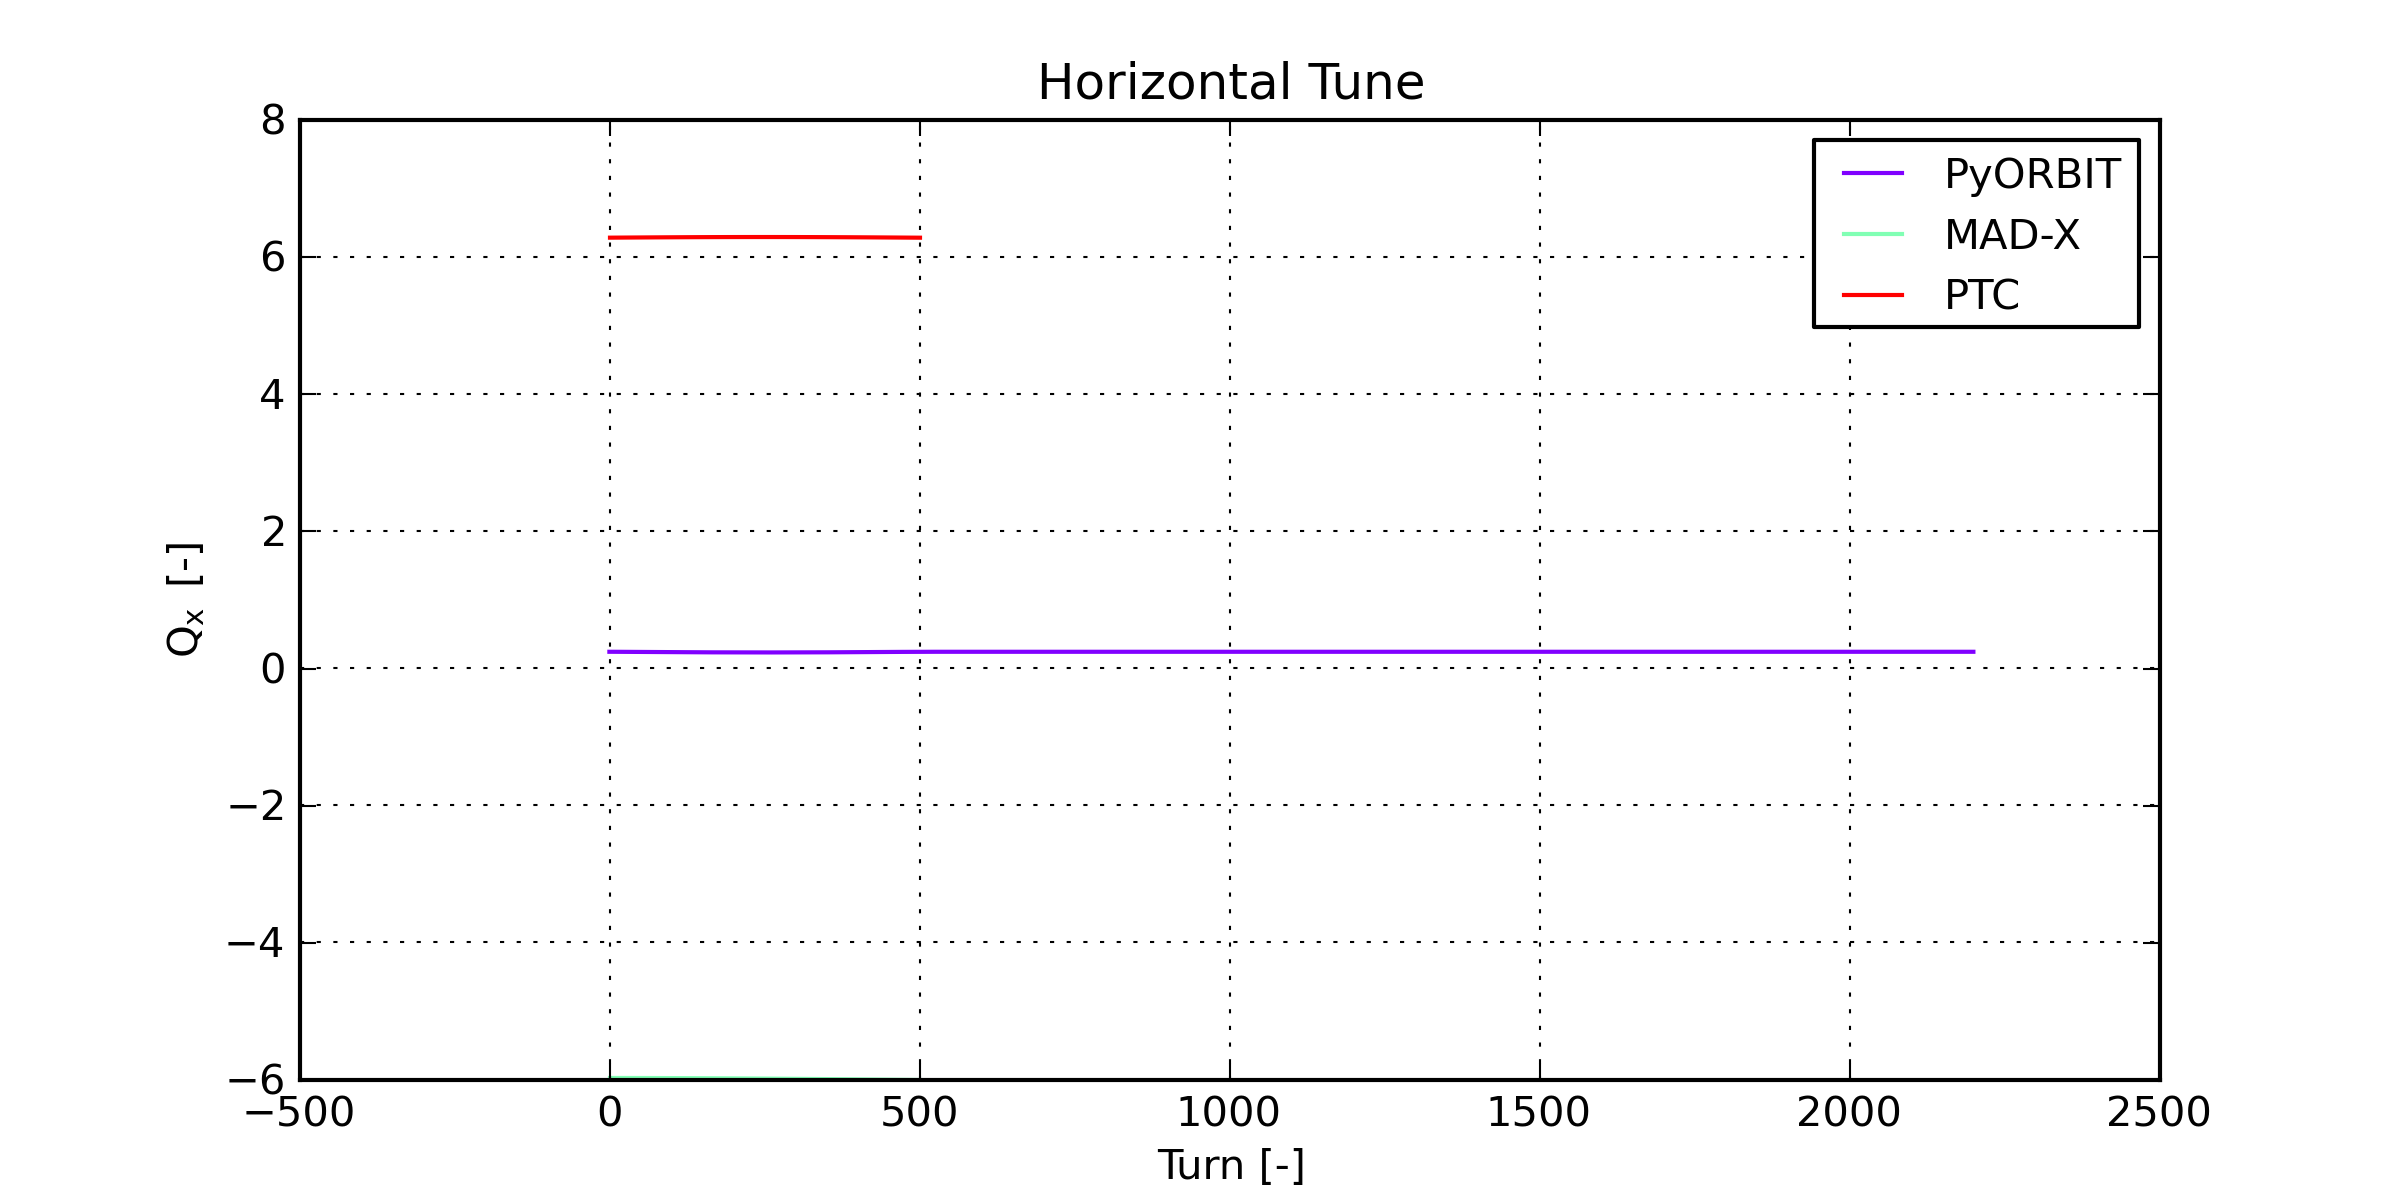
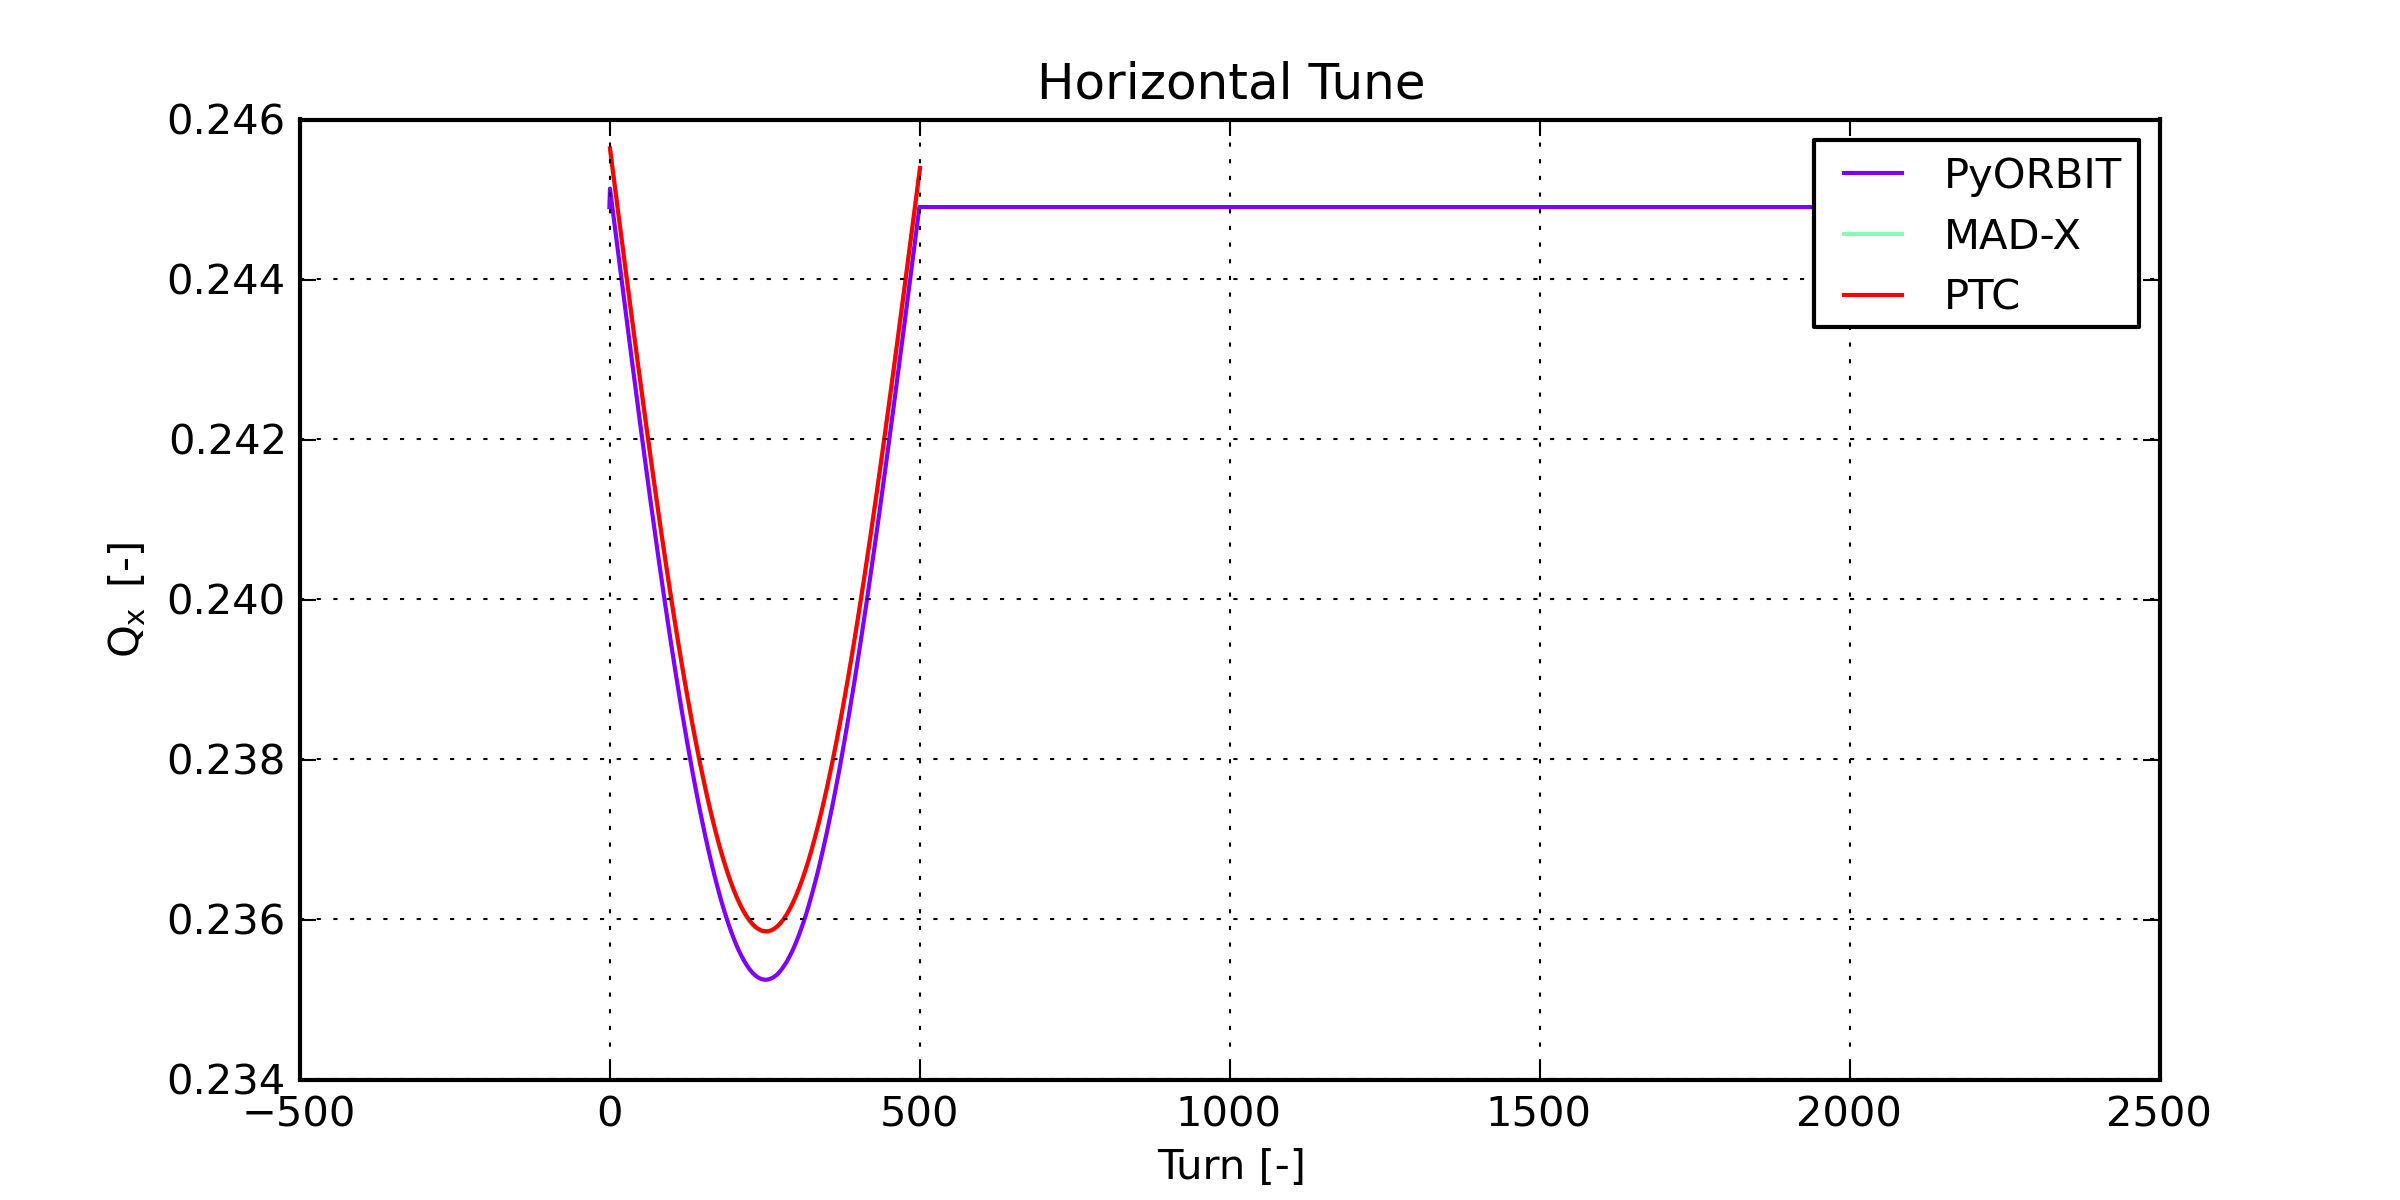
08: Gathered MADX PTC PyORBIT plotting udpated

diff --git a/08_Injection_Bump/00_Flat_Bottom/PyORBIT/Plot_MADX_Tunes.py b/08_Injection_Bump/00_Flat_Bottom/PyORBIT/Plot_MADX_Tunes.py
@@ -24,10 +24,10 @@ def add_input_file(dd, filename, label):
 	f = filename
 	p = dict()
 	sio.loadmat(f, mdict=p)
-	dd[label] = p
+	dd[label] = p	
 	print '\tAdded output data from ', filename, '\t dictionary key: ', label
 	return dd
-        
+
 # Function takes the data, creates the correct timing for each value in
 # seconds, then appends the required number of intervals with zeroes
 def Create_Timing(ramp_stop_time, simulation_stop_time):
@@ -59,7 +59,7 @@ def Create_Timing(ramp_stop_time, simulation_stop_time):
 # Create dd dictionary
 dd = dict()
 dd = add_input_file(dd, 'output/output.mat', 'PyORBIT')
-print 'Final data dictionary keys: ', dd['PyORBIT'].keys()
+print 'Final data dictionary keys: ', dd.keys()
 
 sc = 'Slice-by-Slice'
 main_label = '08'

diff --git a/08_Injection_Bump/00_Bare_Machine/PyORBIT/Plot_MADX_Tunes.py b/08_Injection_Bump/00_Bare_Machine/PyORBIT/Plot_MADX_Tunes.py
@@ -82,10 +82,10 @@ fin = open(infile,'r').readlines()[8:]
 
 # Save s, x
 for l in fin:
-	madx_qx.append(float(l.split()[8])-6.)
-	madx_qy.append(float(l.split()[9])-6.)
-	ptc_qx.append(float(l.split()[10]))
-	ptc_qy.append(float(l.split()[11]))
+	madx_qx.append(float(l.split()[9])-6.)
+	madx_qy.append(float(l.split()[10])-6.)
+	ptc_qx.append(float(l.split()[11]))
+	ptc_qy.append(float(l.split()[12]))
 
 size = len(ptc_qx)
 turns = np.linspace(0, 500, size)

diff --git a/08_Injection_Bump/00_Master/PyORBIT/Plot_MADX_Tunes.py b/08_Injection_Bump/00_Master/PyORBIT/Plot_MADX_Tunes.py
@@ -82,10 +82,10 @@ fin = open(infile,'r').readlines()[8:]
 
 # Save s, x
 for l in fin:
-	madx_qx.append(float(l.split()[8])-6.)
-	madx_qy.append(float(l.split()[9])-6.)
-	ptc_qx.append(float(l.split()[10]))
-	ptc_qy.append(float(l.split()[11]))
+	madx_qx.append(float(l.split()[9])-6.)
+	madx_qy.append(float(l.split()[10])-6.)
+	ptc_qx.append(float(l.split()[11]))
+	ptc_qy.append(float(l.split()[12]))
 
 size = len(ptc_qx)
 turns = np.linspace(0, 500, size)

diff --git a/08_Injection_Bump/00_Matched_H_07/PyORBIT/Plot_MADX_Tunes.py b/08_Injection_Bump/00_Matched_H_07/PyORBIT/Plot_MADX_Tunes.py
@@ -82,10 +82,10 @@ fin = open(infile,'r').readlines()[8:]
 
 # Save s, x
 for l in fin:
-	madx_qx.append(float(l.split()[8])-6.)
-	madx_qy.append(float(l.split()[9])-6.)
-	ptc_qx.append(float(l.split()[10]))
-	ptc_qy.append(float(l.split()[11]))
+	madx_qx.append(float(l.split()[9])-6.)
+	madx_qy.append(float(l.split()[10])-6.)
+	ptc_qx.append(float(l.split()[11]))
+	ptc_qy.append(float(l.split()[12]))
 
 size = len(ptc_qx)
 turns = np.linspace(0, 500, size)

diff --git a/08_Injection_Bump/00_Matched_Op/PyORBIT/Plot_MADX_Tunes.py b/08_Injection_Bump/00_Matched_Op/PyORBIT/Plot_MADX_Tunes.py
@@ -82,10 +82,10 @@ fin = open(infile,'r').readlines()[8:]
 
 # Save s, x
 for l in fin:
-	madx_qx.append(float(l.split()[8])-6.)
-	madx_qy.append(float(l.split()[9])-6.)
-	ptc_qx.append(float(l.split()[10]))
-	ptc_qy.append(float(l.split()[11]))
+	madx_qx.append(float(l.split()[9])-6.)
+	madx_qy.append(float(l.split()[10])-6.)
+	ptc_qx.append(float(l.split()[11]))
+	ptc_qy.append(float(l.split()[12]))
 
 size = len(ptc_qx)
 turns = np.linspace(0, 500, size)

diff --git a/08_Injection_Bump/00_Matched_V_10/PyORBIT/Plot_MADX_Tunes.py b/08_Injection_Bump/00_Matched_V_10/PyORBIT/Plot_MADX_Tunes.py
@@ -82,10 +82,10 @@ fin = open(infile,'r').readlines()[8:]
 
 # Save s, x
 for l in fin:
-	madx_qx.append(float(l.split()[8])-6.)
-	madx_qy.append(float(l.split()[9])-6.)
-	ptc_qx.append(float(l.split()[10]))
-	ptc_qy.append(float(l.split()[11]))
+	madx_qx.append(float(l.split()[9])-6.)
+	madx_qy.append(float(l.split()[10])-6.)
+	ptc_qx.append(float(l.split()[11]))
+	ptc_qy.append(float(l.split()[12]))
 
 size = len(ptc_qx)
 turns = np.linspace(0, 500, size)
